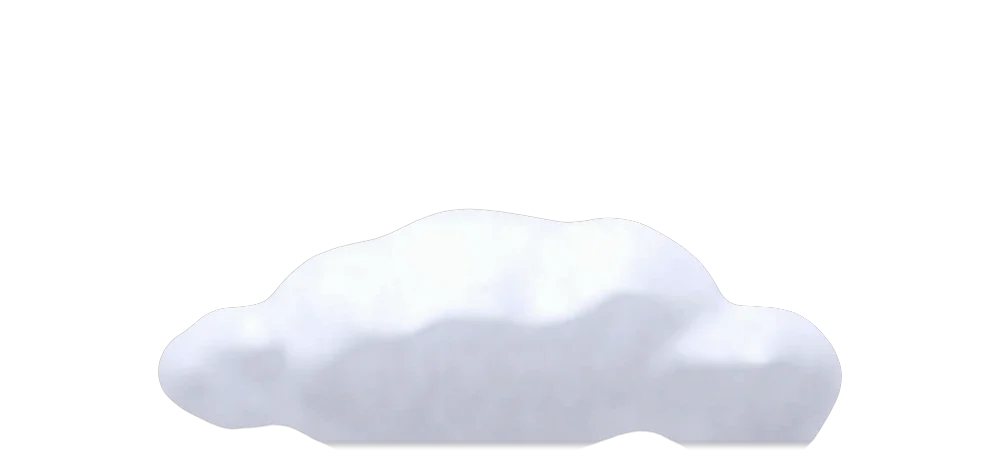
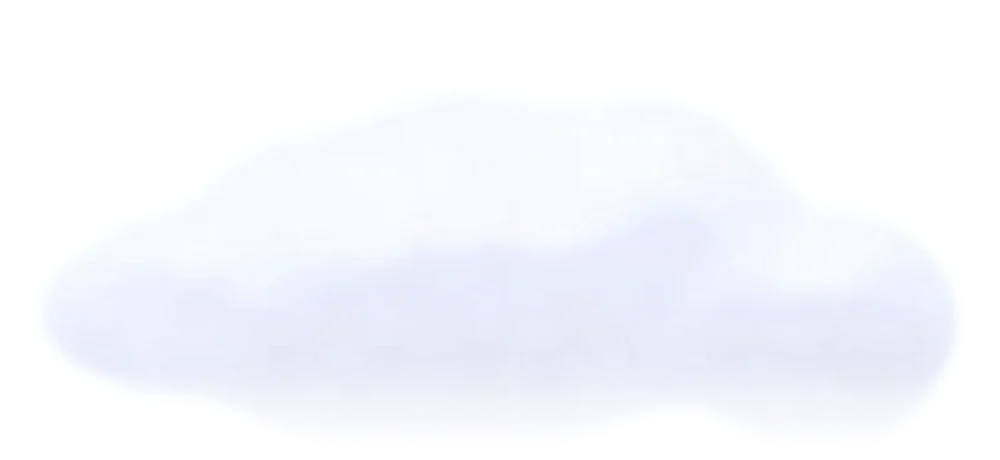
XBASE: mehr Luft im Hero, milchigere Wolken, schönere Flughafen-Karte
Claude-Session: https://claude.ai/code/session_01WS1E1cskWG4amAw1bvVYAm

Changed region(s): [[0.155, 0.6391, 0.93, 0.9739]]

diff --git a/kunden/xbase-aero/seite/index.html b/kunden/xbase-aero/seite/index.html
@@ -473,6 +473,35 @@ body::before{content:"";position:fixed;inset:0;z-index:-1;pointer-events:none;ba
 .sky img{opacity:.96!important;filter:none!important}
 @media (max-width:960px){.sky{-webkit-mask-image:linear-gradient(180deg,rgba(0,0,0,.45),rgba(0,0,0,.45) 55%,#000 70%,#000 88%,transparent 99%);mask-image:linear-gradient(180deg,rgba(0,0,0,.45),rgba(0,0,0,.45) 55%,#000 70%,#000 88%,transparent 99%)}}
 @media (prefers-reduced-motion:reduce){.hero h1 .l1,.hero h1 .l2{animation:none}.xp__fly{opacity:1;transform:rotate(70deg)}}
+
+/* Karte im Kontakt schöner */
+.rwy{padding-top:32px}
+.map{border-radius:20px;overflow:hidden;border:1px solid rgba(111,208,255,.18);background:linear-gradient(160deg,rgba(20,60,120,.55),rgba(6,22,50,.8));box-shadow:inset 0 1px 0 rgba(255,255,255,.08),0 20px 40px -24px rgba(0,0,0,.6)}
+.rwy .map svg{display:block;width:100%;max-width:none;height:auto}
+.map__pulse{transform-box:fill-box;transform-origin:center;animation:mpulse 2.4s ease-out infinite}
+@keyframes mpulse{0%{transform:scale(1);opacity:.55}100%{transform:scale(3.4);opacity:0}}
+.map__foot{display:flex;align-items:center;justify-content:space-between;gap:12px;margin-top:14px;flex-wrap:wrap}
+.rwy .map__foot small{margin:0;color:#8aa0c2}
+.map__go{display:inline-flex;align-items:center;gap:6px;padding:9px 14px;border-radius:999px;background:rgba(255,255,255,.08);border:1px solid rgba(255,255,255,.18);color:#fff;font:600 14px/1 var(--sans);text-decoration:none;transition:background .2s}
+.map__go:hover{background:rgba(255,255,255,.16)}
+.map__go svg{width:15px;height:15px}
+@media (prefers-reduced-motion:reduce){.map__pulse{animation:none}}
+
+/* Hero wieder mit mehr Luft */
+@media (min-width:961px){
+  .hero{min-height:min(100svh,980px);padding-top:calc(var(--navh) + 64px);padding-bottom:96px}
+  .hero h1{margin-top:32px}
+  .hero .lead{margin-top:30px}
+  .hero__cta{margin-top:44px}
+  .hero__facts{margin-top:52px;padding-top:30px}
+}
+@media (min-width:1400px){.hero .wrap{gap:56px}.hero{padding-bottom:110px}#services{padding-top:64px}}
+@media (max-width:600px){
+  .hero{padding-top:calc(var(--navh) + 34px);padding-bottom:40px}
+  .hero h1{margin-top:26px}
+  .hero .lead{margin-top:22px}
+  .hero__cta{margin-top:30px}
+}
 </style>
 </head>
 <body>
@@ -496,11 +525,11 @@ body::before{content:"";position:fixed;inset:0;z-index:-1;pointer-events:none;ba
 <main id="top">
 <section class="hero">
   <div class="sky" aria-hidden="true">
-    <img class="c1" src="assets/img/wolke-1.webp?v=2" width="1400" height="560" alt="">
-    <img class="c4" src="assets/img/wolke-2.webp?v=2" width="1000" height="460" alt="">
-    <img class="c2" src="assets/img/wolke-2.webp?v=2" width="1000" height="460" alt="">
-    <img class="c3" src="assets/img/wolke-3.webp?v=2" width="1600" height="420" alt="">
-    <img class="c5" src="assets/img/wolke-1.webp?v=2" width="1400" height="560" alt="">
+    <img class="c1" src="assets/img/wolke-1.webp?v=3" width="1400" height="560" alt="">
+    <img class="c4" src="assets/img/wolke-2.webp?v=3" width="1000" height="460" alt="">
+    <img class="c2" src="assets/img/wolke-2.webp?v=3" width="1000" height="460" alt="">
+    <img class="c3" src="assets/img/wolke-3.webp?v=3" width="1600" height="420" alt="">
+    <img class="c5" src="assets/img/wolke-1.webp?v=3" width="1400" height="560" alt="">
   </div>
   <div class="wrap">
     <div>
@@ -737,7 +766,21 @@ body::before{content:"";position:fixed;inset:0;z-index:-1;pointer-events:none;ba
         <div class="cline"><svg viewBox="0 0 24 24" fill="none" stroke="currentColor" stroke-width="2" stroke-linecap="round" stroke-linejoin="round"><rect x="3" y="5" width="18" height="14" rx="2"/><path d="M3 7l9 6 9-6"/></svg><div><small>E-mail</small><b>office@xbase.aero</b></div></div>
         <div class="cline"><svg viewBox="0 0 24 24" fill="none" stroke="currentColor" stroke-width="2" stroke-linecap="round" stroke-linejoin="round"><path d="M22 16.9v3a2 2 0 0 1-2.2 2 19.8 19.8 0 0 1-8.6-3.1 19.5 19.5 0 0 1-6-6A19.8 19.8 0 0 1 2.1 4.2 2 2 0 0 1 4.1 2h3a2 2 0 0 1 2 1.7c.1.9.4 1.8.7 2.7a2 2 0 0 1-.5 2.1L8 9.8a16 16 0 0 0 6 6l1.3-1.3a2 2 0 0 1 2.1-.4c.9.3 1.8.6 2.7.7a2 2 0 0 1 1.7 2z"/></svg><div><small>Phone</small><b>+43 … (to follow)</b></div></div>
         <div class="cline"><svg viewBox="0 0 24 24" fill="none" stroke="currentColor" stroke-width="2" stroke-linecap="round" stroke-linejoin="round"><circle cx="12" cy="12" r="9"/><path d="M12 7v5l3 2"/></svg><div><small>Office hours</small><b>Mon–Fri, 8 am – 5 pm</b></div></div>
-        <div class="rwy" aria-hidden="true"><svg viewBox="0 0 420 150" fill="none"><g stroke="rgba(111,208,255,.55)" stroke-width="10" stroke-linecap="round"><path d="M30 40 L390 96"/><path d="M250 12 L300 140"/></g><g stroke="#061632" stroke-width="1.6" stroke-dasharray="8 8"><path d="M30 40 L390 96"/><path d="M250 12 L300 140"/></g><circle cx="262" cy="74" r="7" fill="#00b8ff"/><circle cx="262" cy="74" r="16" stroke="#00b8ff" stroke-opacity=".4"/><text x="282" y="70" fill="#eaf2ff" font-family="Space Mono,monospace" font-size="12">XBASE Aero</text><text x="30" y="30" fill="#6c83a8" font-family="Space Mono,monospace" font-size="10">RWY 11</text><text x="330" y="140" fill="#6c83a8" font-family="Space Mono,monospace" font-size="10">RWY 34</text></svg><small>Vienna International Airport · LOWW</small></div>
+        <div class="rwy"><div class="map"><svg viewBox="0 0 460 230" fill="none" aria-hidden="true">
+<defs><pattern id="mg" width="23" height="23" patternUnits="userSpaceOnUse"><path d="M23 0H0V23" stroke="rgba(111,208,255,.07)"/></pattern>
+<radialGradient id="mh" cx=".6" cy=".45" r=".6"><stop offset="0" stop-color="#0d3a7a" stop-opacity=".9"/><stop offset="1" stop-color="#061632" stop-opacity="0"/></radialGradient></defs>
+<rect width="460" height="230" fill="url(#mg)"/><rect width="460" height="230" fill="url(#mh)"/>
+<g stroke="rgba(111,208,255,.22)" stroke-width="3" stroke-linecap="round"><path d="M70 92 L250 120 L300 150"/><path d="M200 112 L212 70 L262 60"/><path d="M262 60 L330 112"/></g>
+<g fill="rgba(111,208,255,.14)" stroke="rgba(111,208,255,.35)"><rect x="214" y="40" width="70" height="16" rx="4"/><rect x="290" y="50" width="30" height="34" rx="4" transform="rotate(18 305 67)"/></g>
+<g stroke-linecap="butt"><path d="M40 70 L420 130" stroke="#1d3d6e" stroke-width="16"/><path d="M200 18 L262 212" stroke="#1d3d6e" stroke-width="16"/></g>
+<g stroke="#eaf2ff" stroke-opacity=".75" stroke-width="1.4" stroke-dasharray="10 9"><path d="M62 73.5 L398 126.5"/><path d="M206 39 L255 191"/></g>
+<g stroke="#eaf2ff" stroke-opacity=".6" stroke-width="1.4"><path d="M45 66 l-2 9M49 67 l-2 9M53 67.5 l-2 9M417 125 l-2 9M413 124.5 l-2 9M409 124 l-2 9M195 22 l10 -3M197 27 l10 -3M257 210 l10 -3M255 205 l10 -3"/></g>
+<g fill="#8fb4e6" font-family="Space Mono,monospace" font-size="10"><text x="16" y="64">11</text><text x="428" y="142">29</text><text x="186" y="14">16</text><text x="268" y="226">34</text></g>
+<g transform="translate(372 30)" stroke="#6fd0ff" stroke-opacity=".7"><circle r="13" stroke-opacity=".3"/><path d="M0 -9 L4 4 L0 1 L-4 4 Z" fill="#6fd0ff" fill-opacity=".8" stroke="none"/><text y="24" x="-3.5" fill="#6fd0ff" stroke="none" font-family="Space Mono,monospace" font-size="9">N</text></g>
+<g class="map__pin" transform="translate(305 84)"><circle class="map__pulse" r="10" fill="#00b8ff"/><circle r="12" fill="#00b8ff" fill-opacity=".18"/><circle r="6.5" fill="#00b8ff" stroke="#fff" stroke-width="2.2"/></g>
+<g transform="translate(318 152)"><rect width="122" height="40" rx="10" fill="rgba(255,255,255,.1)" stroke="rgba(255,255,255,.22)"/><text x="12" y="17" fill="#fff" font-family="Outfit,Inter,sans-serif" font-weight="600" font-size="12">XBASE Aero</text><text x="12" y="31" fill="#8fb4e6" font-family="Space Mono,monospace" font-size="9">TOWER STR. 3</text></g>
+<path d="M310 92 L330 150" stroke="rgba(255,255,255,.3)" stroke-dasharray="2 3"/>
+</svg></div><div class="map__foot"><small>Vienna International Airport · LOWW · schematic</small><a class="map__go" href="https://www.google.com/maps/search/?api=1&amp;query=Tower+Stra%C3%9Fe+3%2C+1300+Schwechat" target="_blank" rel="noopener">Directions <svg viewBox="0 0 24 24" fill="none" stroke="currentColor" stroke-width="2.2" stroke-linecap="round" stroke-linejoin="round"><path d="M7 17 17 7M8 7h9v9"/></svg></a></div></div>
       </div>
       <div class="cbox cbox--f rv">
         <div class="tabs" role="tablist" aria-label="Request type">

diff --git a/webdesign/demo/xbase/index.php b/webdesign/demo/xbase/index.php
@@ -473,6 +473,35 @@ body::before{content:"";position:fixed;inset:0;z-index:-1;pointer-events:none;ba
 .sky img{opacity:.96!important;filter:none!important}
 @media (max-width:960px){.sky{-webkit-mask-image:linear-gradient(180deg,rgba(0,0,0,.45),rgba(0,0,0,.45) 55%,#000 70%,#000 88%,transparent 99%);mask-image:linear-gradient(180deg,rgba(0,0,0,.45),rgba(0,0,0,.45) 55%,#000 70%,#000 88%,transparent 99%)}}
 @media (prefers-reduced-motion:reduce){.hero h1 .l1,.hero h1 .l2{animation:none}.xp__fly{opacity:1;transform:rotate(70deg)}}
+
+/* Karte im Kontakt schöner */
+.rwy{padding-top:32px}
+.map{border-radius:20px;overflow:hidden;border:1px solid rgba(111,208,255,.18);background:linear-gradient(160deg,rgba(20,60,120,.55),rgba(6,22,50,.8));box-shadow:inset 0 1px 0 rgba(255,255,255,.08),0 20px 40px -24px rgba(0,0,0,.6)}
+.rwy .map svg{display:block;width:100%;max-width:none;height:auto}
+.map__pulse{transform-box:fill-box;transform-origin:center;animation:mpulse 2.4s ease-out infinite}
+@keyframes mpulse{0%{transform:scale(1);opacity:.55}100%{transform:scale(3.4);opacity:0}}
+.map__foot{display:flex;align-items:center;justify-content:space-between;gap:12px;margin-top:14px;flex-wrap:wrap}
+.rwy .map__foot small{margin:0;color:#8aa0c2}
+.map__go{display:inline-flex;align-items:center;gap:6px;padding:9px 14px;border-radius:999px;background:rgba(255,255,255,.08);border:1px solid rgba(255,255,255,.18);color:#fff;font:600 14px/1 var(--sans);text-decoration:none;transition:background .2s}
+.map__go:hover{background:rgba(255,255,255,.16)}
+.map__go svg{width:15px;height:15px}
+@media (prefers-reduced-motion:reduce){.map__pulse{animation:none}}
+
+/* Hero wieder mit mehr Luft */
+@media (min-width:961px){
+  .hero{min-height:min(100svh,980px);padding-top:calc(var(--navh) + 64px);padding-bottom:96px}
+  .hero h1{margin-top:32px}
+  .hero .lead{margin-top:30px}
+  .hero__cta{margin-top:44px}
+  .hero__facts{margin-top:52px;padding-top:30px}
+}
+@media (min-width:1400px){.hero .wrap{gap:56px}.hero{padding-bottom:110px}#services{padding-top:64px}}
+@media (max-width:600px){
+  .hero{padding-top:calc(var(--navh) + 34px);padding-bottom:40px}
+  .hero h1{margin-top:26px}
+  .hero .lead{margin-top:22px}
+  .hero__cta{margin-top:30px}
+}
 </style>
 </head>
 <body>
@@ -496,11 +525,11 @@ body::before{content:"";position:fixed;inset:0;z-index:-1;pointer-events:none;ba
 <main id="top">
 <section class="hero">
   <div class="sky" aria-hidden="true">
-    <img class="c1" src="assets/img/wolke-1.webp?v=2" width="1400" height="560" alt="">
-    <img class="c4" src="assets/img/wolke-2.webp?v=2" width="1000" height="460" alt="">
-    <img class="c2" src="assets/img/wolke-2.webp?v=2" width="1000" height="460" alt="">
-    <img class="c3" src="assets/img/wolke-3.webp?v=2" width="1600" height="420" alt="">
-    <img class="c5" src="assets/img/wolke-1.webp?v=2" width="1400" height="560" alt="">
+    <img class="c1" src="assets/img/wolke-1.webp?v=3" width="1400" height="560" alt="">
+    <img class="c4" src="assets/img/wolke-2.webp?v=3" width="1000" height="460" alt="">
+    <img class="c2" src="assets/img/wolke-2.webp?v=3" width="1000" height="460" alt="">
+    <img class="c3" src="assets/img/wolke-3.webp?v=3" width="1600" height="420" alt="">
+    <img class="c5" src="assets/img/wolke-1.webp?v=3" width="1400" height="560" alt="">
   </div>
   <div class="wrap">
     <div>
@@ -737,7 +766,21 @@ body::before{content:"";position:fixed;inset:0;z-index:-1;pointer-events:none;ba
         <div class="cline"><svg viewBox="0 0 24 24" fill="none" stroke="currentColor" stroke-width="2" stroke-linecap="round" stroke-linejoin="round"><rect x="3" y="5" width="18" height="14" rx="2"/><path d="M3 7l9 6 9-6"/></svg><div><small>E-mail</small><b>office@xbase.aero</b></div></div>
         <div class="cline"><svg viewBox="0 0 24 24" fill="none" stroke="currentColor" stroke-width="2" stroke-linecap="round" stroke-linejoin="round"><path d="M22 16.9v3a2 2 0 0 1-2.2 2 19.8 19.8 0 0 1-8.6-3.1 19.5 19.5 0 0 1-6-6A19.8 19.8 0 0 1 2.1 4.2 2 2 0 0 1 4.1 2h3a2 2 0 0 1 2 1.7c.1.9.4 1.8.7 2.7a2 2 0 0 1-.5 2.1L8 9.8a16 16 0 0 0 6 6l1.3-1.3a2 2 0 0 1 2.1-.4c.9.3 1.8.6 2.7.7a2 2 0 0 1 1.7 2z"/></svg><div><small>Phone</small><b>+43 … (to follow)</b></div></div>
         <div class="cline"><svg viewBox="0 0 24 24" fill="none" stroke="currentColor" stroke-width="2" stroke-linecap="round" stroke-linejoin="round"><circle cx="12" cy="12" r="9"/><path d="M12 7v5l3 2"/></svg><div><small>Office hours</small><b>Mon–Fri, 8 am – 5 pm</b></div></div>
-        <div class="rwy" aria-hidden="true"><svg viewBox="0 0 420 150" fill="none"><g stroke="rgba(111,208,255,.55)" stroke-width="10" stroke-linecap="round"><path d="M30 40 L390 96"/><path d="M250 12 L300 140"/></g><g stroke="#061632" stroke-width="1.6" stroke-dasharray="8 8"><path d="M30 40 L390 96"/><path d="M250 12 L300 140"/></g><circle cx="262" cy="74" r="7" fill="#00b8ff"/><circle cx="262" cy="74" r="16" stroke="#00b8ff" stroke-opacity=".4"/><text x="282" y="70" fill="#eaf2ff" font-family="Space Mono,monospace" font-size="12">XBASE Aero</text><text x="30" y="30" fill="#6c83a8" font-family="Space Mono,monospace" font-size="10">RWY 11</text><text x="330" y="140" fill="#6c83a8" font-family="Space Mono,monospace" font-size="10">RWY 34</text></svg><small>Vienna International Airport · LOWW</small></div>
+        <div class="rwy"><div class="map"><svg viewBox="0 0 460 230" fill="none" aria-hidden="true">
+<defs><pattern id="mg" width="23" height="23" patternUnits="userSpaceOnUse"><path d="M23 0H0V23" stroke="rgba(111,208,255,.07)"/></pattern>
+<radialGradient id="mh" cx=".6" cy=".45" r=".6"><stop offset="0" stop-color="#0d3a7a" stop-opacity=".9"/><stop offset="1" stop-color="#061632" stop-opacity="0"/></radialGradient></defs>
+<rect width="460" height="230" fill="url(#mg)"/><rect width="460" height="230" fill="url(#mh)"/>
+<g stroke="rgba(111,208,255,.22)" stroke-width="3" stroke-linecap="round"><path d="M70 92 L250 120 L300 150"/><path d="M200 112 L212 70 L262 60"/><path d="M262 60 L330 112"/></g>
+<g fill="rgba(111,208,255,.14)" stroke="rgba(111,208,255,.35)"><rect x="214" y="40" width="70" height="16" rx="4"/><rect x="290" y="50" width="30" height="34" rx="4" transform="rotate(18 305 67)"/></g>
+<g stroke-linecap="butt"><path d="M40 70 L420 130" stroke="#1d3d6e" stroke-width="16"/><path d="M200 18 L262 212" stroke="#1d3d6e" stroke-width="16"/></g>
+<g stroke="#eaf2ff" stroke-opacity=".75" stroke-width="1.4" stroke-dasharray="10 9"><path d="M62 73.5 L398 126.5"/><path d="M206 39 L255 191"/></g>
+<g stroke="#eaf2ff" stroke-opacity=".6" stroke-width="1.4"><path d="M45 66 l-2 9M49 67 l-2 9M53 67.5 l-2 9M417 125 l-2 9M413 124.5 l-2 9M409 124 l-2 9M195 22 l10 -3M197 27 l10 -3M257 210 l10 -3M255 205 l10 -3"/></g>
+<g fill="#8fb4e6" font-family="Space Mono,monospace" font-size="10"><text x="16" y="64">11</text><text x="428" y="142">29</text><text x="186" y="14">16</text><text x="268" y="226">34</text></g>
+<g transform="translate(372 30)" stroke="#6fd0ff" stroke-opacity=".7"><circle r="13" stroke-opacity=".3"/><path d="M0 -9 L4 4 L0 1 L-4 4 Z" fill="#6fd0ff" fill-opacity=".8" stroke="none"/><text y="24" x="-3.5" fill="#6fd0ff" stroke="none" font-family="Space Mono,monospace" font-size="9">N</text></g>
+<g class="map__pin" transform="translate(305 84)"><circle class="map__pulse" r="10" fill="#00b8ff"/><circle r="12" fill="#00b8ff" fill-opacity=".18"/><circle r="6.5" fill="#00b8ff" stroke="#fff" stroke-width="2.2"/></g>
+<g transform="translate(318 152)"><rect width="122" height="40" rx="10" fill="rgba(255,255,255,.1)" stroke="rgba(255,255,255,.22)"/><text x="12" y="17" fill="#fff" font-family="Outfit,Inter,sans-serif" font-weight="600" font-size="12">XBASE Aero</text><text x="12" y="31" fill="#8fb4e6" font-family="Space Mono,monospace" font-size="9">TOWER STR. 3</text></g>
+<path d="M310 92 L330 150" stroke="rgba(255,255,255,.3)" stroke-dasharray="2 3"/>
+</svg></div><div class="map__foot"><small>Vienna International Airport · LOWW · schematic</small><a class="map__go" href="https://www.google.com/maps/search/?api=1&amp;query=Tower+Stra%C3%9Fe+3%2C+1300+Schwechat" target="_blank" rel="noopener">Directions <svg viewBox="0 0 24 24" fill="none" stroke="currentColor" stroke-width="2.2" stroke-linecap="round" stroke-linejoin="round"><path d="M7 17 17 7M8 7h9v9"/></svg></a></div></div>
       </div>
       <div class="cbox cbox--f rv">
         <div class="tabs" role="tablist" aria-label="Request type">
